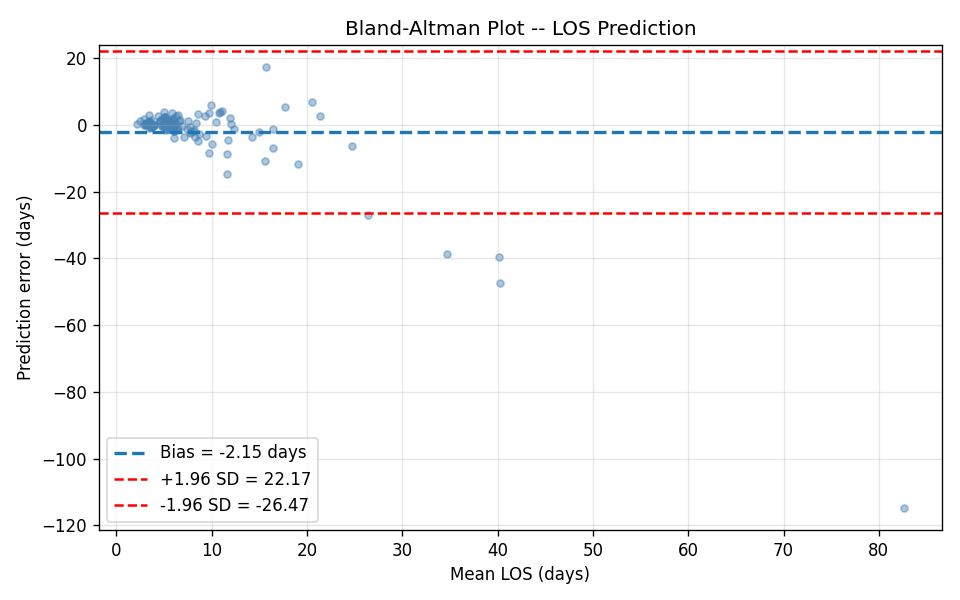
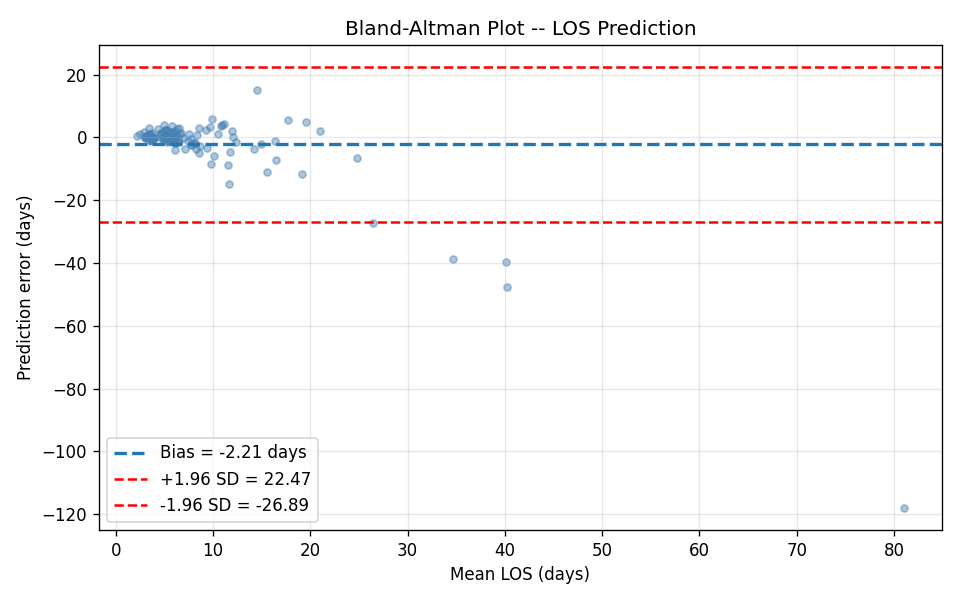
2.9165 - Clip extreme predictions at 95th percentile of training target

diff --git a/generate_submission.py b/generate_submission.py
@@ -95,6 +95,14 @@ def main():
     predictions = np.expm1(pipeline.predict(test_df))
     predictions = np.maximum(predictions, 1.0)   # LOS >= 1 day
 
+    # Clip extreme predictions at 95th percentile of training target
+    train_df = pd.read_csv("train.csv")
+    if "Length of stay" in train_df.columns:
+        y_train_cap = train_df["Length of stay"].dropna()
+        cap = np.percentile(y_train_cap, 95)
+        predictions = np.clip(predictions, 1.0, cap)
+        print(f"Clipped predictions to [{1.0:.2f}, {cap:.2f}] days (95th pct of train)")
+
     submission = pd.DataFrame({"ID": test_ids, "TARGET": predictions})
     submission_path = Path("submission.csv")
     submission.to_csv(submission_path, index=False)

diff --git a/pancreatitis_ml.py b/pancreatitis_ml.py
@@ -349,6 +349,11 @@ def train_and_evaluate(df: pd.DataFrame) -> dict:
     preds     = np.expm1(preds_log)
     preds     = np.maximum(preds, 1.0)
 
+    # Clip extreme predictions at 95th percentile to reduce MAE inflation
+    cap = np.percentile(y_train, 95)
+    preds = np.clip(preds, 1.0, cap)
+    print(f"  Prediction cap (95th pct of train target): {cap:.2f} days")
+
     mae  = mean_absolute_error(y_test, preds)
     rmse = _rmse(y_test, preds)
     r2   = r2_score(y_test, preds)
